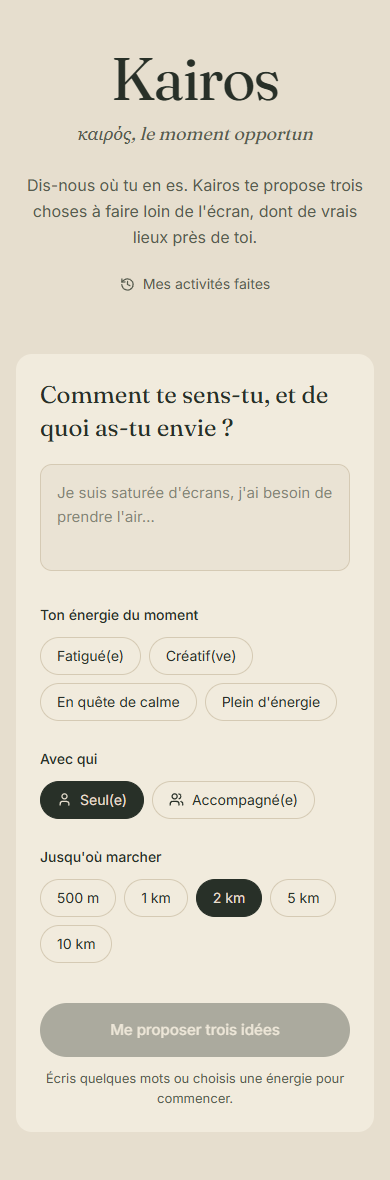
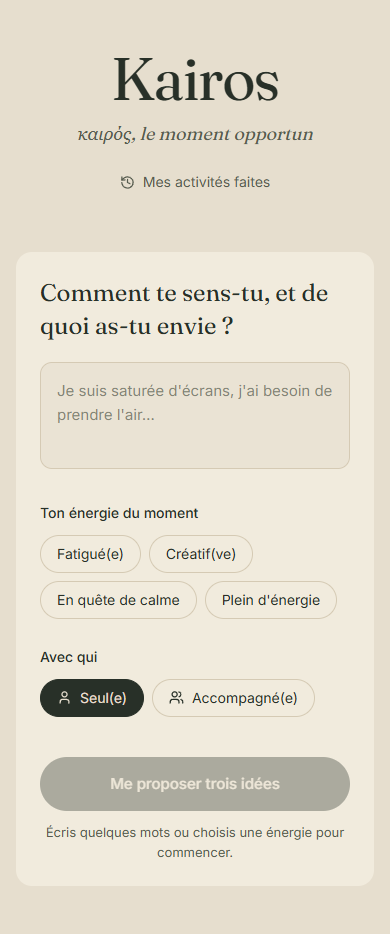
Remove the distance selector and skip places that are currently closed
- Drop the intro sentence and the "Jusqu'où marcher" selector from the form
- Search places within 5 km by default (radius stays optional in the API)
- Skip places that are closed right now, for both Google Maps and Places API
- Update README, handover guide and form screenshots

diff --git a/frontend/src/components/KairosForm.tsx b/frontend/src/components/KairosForm.tsx
@@ -4,12 +4,6 @@ import { User, Users } from "lucide-react";
 import type { RecommendRequest } from "../types";
 
 const MOODS = ["Fatigué(e)", "Créatif(ve)", "En quête de calme", "Plein d'énergie"];
-// Distance maximale des lieux proposés, en mètres (le backend accepte 300 à 10 000).
-const RADII = [500, 1000, 2000, 5000, 10000];
-
-export function formatRadius(m: number) {
-  return m < 1000 ? `${m} m` : `${m / 1000} km`;
-}
 
 interface Props { initial?: RecommendRequest | null; onSubmit: (req: RecommendRequest) => void }
 
@@ -41,7 +35,6 @@ export default function KairosForm({ initial, onSubmit }: Props) {
   const [text, setText] = useState(initial?.user_input ?? "");
   const [mood, setMood] = useState<string | null>(initial?.mood ?? null);
   const [alone, setAlone] = useState(initial?.is_alone ?? true);
-  const [radius, setRadius] = useState(initial?.radius ?? 2000);
 
   const canSubmit = text.trim().length > 0 || mood !== null;
 
@@ -53,7 +46,7 @@ export default function KairosForm({ initial, onSubmit }: Props) {
       transition={{ duration: 0.4 }}
       onSubmit={(e) => {
         e.preventDefault();
-        if (canSubmit) onSubmit({ user_input: text.trim(), mood, is_alone: alone, max_options: 3, radius });
+        if (canSubmit) onSubmit({ user_input: text.trim(), mood, is_alone: alone, max_options: 3 });
       }}
       className="mx-auto w-full max-w-2xl rounded-2xl bg-surface p-6 sm:p-10"
     >
@@ -78,12 +71,6 @@ export default function KairosForm({ initial, onSubmit }: Props) {
       <Group legend="Avec qui">
         <Chip active={alone} onClick={() => setAlone(true)}><User size={15} /> Seul(e)</Chip>
         <Chip active={!alone} onClick={() => setAlone(false)}><Users size={15} /> Accompagné(e)</Chip>
-      </Group>
-
-      <Group legend="Jusqu'où marcher">
-        {RADII.map((r) => (
-          <Chip key={r} active={radius === r} onClick={() => setRadius(r)}>{formatRadius(r)}</Chip>
-        ))}
       </Group>
 
       <button

diff --git a/frontend/src/App.tsx b/frontend/src/App.tsx
@@ -1,7 +1,7 @@
 import { useState } from "react";
 import { AnimatePresence, motion } from "framer-motion";
 import { ArrowLeft, RefreshCw, MapPinOff, History } from "lucide-react";
-import KairosForm, { formatRadius } from "./components/KairosForm";
+import KairosForm from "./components/KairosForm";
 import BreathingLoader from "./components/BreathingLoader";
 import KairosCard from "./components/KairosCard";
 import InstructionModal from "./components/InstructionModal";
@@ -48,7 +48,7 @@ export default function App() {
         : data.places_source === "no_location"
           ? "La géolocalisation est indisponible. Voici trois activités sans lieu inventé; autorise ta position pour chercher des spots proches."
           : data.places_source === "google_no_match"
-            ? `Aucun spot à moins de ${formatRadius(req.radius ?? 2000)} ne correspond au type demandé avec une note suffisante et une photo. Élargis la distance ou essaie une de ces trois idées.`
+            ? "Aucun lieu ouvert près de toi ne correspond au type demandé avec une note suffisante et une photo. Essaie une de ces trois idées."
             : data.places_source === "google_error"
               ? "Google Places n'a pas répondu. Voici trois idées à faire; vérifie la clé et l'activation de Places API."
               : data.places_source === "maps_error"
@@ -70,9 +70,6 @@ export default function App() {
           Kairos
         </motion.h1>
         <p className="mt-3 font-serif text-lg italic text-muted">καιρός, le moment opportun</p>
-        <p className="mx-auto mt-6 max-w-md text-[16px] leading-relaxed text-muted">
-          Dis-nous où tu en es. Kairos te propose trois choses à faire loin de l'écran, dont de vrais lieux près de toi.
-        </p>
         <button
           onClick={async () => { setHistory(await fetchHistory()); setShowHistory(!showHistory); }}
           aria-expanded={showHistory}

diff --git a/frontend/src/api.ts b/frontend/src/api.ts
@@ -20,7 +20,7 @@ export async function fetchRecommendations(req: RecommendRequest): Promise<Recom
     const res = await fetch("/api/kairos/recommend", {
       method: "POST",
       headers: { "Content-Type": "application/json" },
-      body: JSON.stringify({ ...req, lat: pos.lat, lon: pos.lon, radius: req.radius ?? 2000 }),
+      body: JSON.stringify({ ...req, lat: pos.lat, lon: pos.lon }),
     });
     if (!res.ok) throw new Error(`HTTP ${res.status}`);
     const data = (await res.json()) as RecommendResponse;

diff --git a/backend/app/maps_search.py b/backend/app/maps_search.py
@@ -2,7 +2,8 @@
 
 The request is the one the Maps web page itself sends (learned with API Anything,
 site "google-maps", operation "searchPlaces"). Kairos adds a viewport centred on the
-user so results are local, then keeps only places inside the requested radius.
+user so results are local, then keeps only places inside the radius (5 km by default)
+that are open right now.
 This is an unofficial endpoint: Google can change it at any time, and it is meant for
 prototyping. Nothing is persisted.
 """
@@ -103,9 +104,12 @@ async def search_maps(lat: float, lon: float, radius: int, wanted: set[str]) -> 
             rating, reviews = _get(place, 4, 7), _get(place, 4, 8) or 0
             hours = _get(place, 203, 1, 4, 0) or ""
             image_url = _photo(place)
+            # "Fermé ⋅ Ouvre à 08:00", "Fermé définitivement"…: skip anything not open now.
+            closed = hours.lower().startswith("fermé") or any(
+                word in hours.lower() for word in ("définitivement", "temporairement"))
             if (not name or not place_id or place_id in seen or plat is None or plon is None
                     or rating is None or float(rating) < min_rating or int(reviews) < min_reviews
-                    or not image_url or "définitivement" in hours.lower() or "temporairement" in hours.lower()):
+                    or not image_url or closed):
                 continue
             distance = haversine_m(lat, lon, float(plat), float(plon))
             if distance > radius:  # the viewport is a square; keep only the circle

diff --git a/backend/app/google_places.py b/backend/app/google_places.py
@@ -19,6 +19,7 @@ FIELDS = ",".join([
     "places.id", "places.displayName", "places.formattedAddress", "places.location",
     "places.types", "places.primaryTypeDisplayName", "places.googleMapsUri",
     "places.businessStatus", "places.rating", "places.userRatingCount",
+    "places.currentOpeningHours.openNow",
     "places.photos.name", "places.photos.authorAttributions", "places.photos.googleMapsUri",
 ])
 
@@ -87,7 +88,8 @@ async def search_places(lat: float, lon: float, radius: int, wanted: set[str]) -
             category = next((TYPE_CATEGORY[t] for t in place_types if t in TYPE_CATEGORY), None)
             rating = place.get("rating")
             review_count = place.get("userRatingCount", 0)
-            if (place.get("businessStatus") != "OPERATIONAL" or not name or not address or not place_id
+            open_now = (place.get("currentOpeningHours") or {}).get("openNow")
+            if (place.get("businessStatus") != "OPERATIONAL" or open_now is False or not name or not address or not place_id
                     or not category or not place.get("googleMapsUri") or not location
                     or rating is None or float(rating) < min_rating or int(review_count) < min_reviews):
                 continue

diff --git a/backend/app/schemas.py b/backend/app/schemas.py
@@ -10,7 +10,7 @@ class RecommendRequest(BaseModel):
     max_options: int = Field(3, ge=3, le=3)
     lat: Optional[float] = None  # position de l'utilisateur (gÃ©olocalisation navigateur)
     lon: Optional[float] = None
-    radius: int = Field(2000, ge=300, le=10000)  # mÃ¨tres
+    radius: int = Field(5000, ge=300, le=10000)  # mÃ¨tres
 
 
 class Recommendation(BaseModel):

diff --git a/README.md b/README.md
@@ -23,16 +23,15 @@ more**, so you can choose quickly, put the phone down and go.
   and whether you're alone or with someone.
 - **Generates tailored activities** with an LLM, each with steps to follow, instead of picking
   from a fixed catalog.
-- **Finds real places around you** (cafés, parks, museums, libraries, galleries) within the
-  radius you choose, from 500 m to 10 km. Each place comes with a photo, its rating, distance,
-  opening hours and a Google Maps link.
-- **Keeps only good places**: open, rated at least 4.2/5, with at least 10 reviews.
+- **Finds real places around you** (cafés, parks, museums, libraries, galleries) within 5 km.
+  Each place comes with a photo, its rating, distance, opening hours and a Google Maps link.
+- **Keeps only good places**: open right now, rated at least 4.2/5, with at least 10 reviews.
 - **Remembers what you've done**: an activity marked as done is not suggested again.
 - **Works without AI or location**: without an LLM it puts together fallback ideas; without
   geolocation it suggests activities with no place attached.
 
 <p align="center">
-  <img src="docs/images/formulaire.png" alt="Kairos form: free text, current energy, who you're with, and maximum distance" width="620">
+  <img src="docs/images/formulaire.png" alt="Kairos form: free text, current energy and who you're with" width="620">
   &nbsp;
   <img src="docs/images/mobile.png" alt="Kairos on mobile" width="190">
 </p>
@@ -100,11 +99,11 @@ create a key restricted to that API, then add it to `.env`.
 ## How it works
 
 ```
-Browser (React)  ──  mood, text, location, radius  ──▶  POST /api/kairos/recommend
+Browser (React)  ──  mood, text, location  ────────▶  POST /api/kairos/recommend
                                                               │
                    ┌──────────────────────────────────────────┼──────────────────────┐
                    ▼                                          ▼                      ▼
-          LLM: activity ideas                     Places within the radius    SQLite: activities
+          LLM: activity ideas                     Open places within 5 km     SQLite: activities
           (Ollama / Gemini / local)               (Places API or Maps)        already done, skipped
                    └──────────────────────────────────────────┬──────────────────────┘
                                                               ▼
@@ -139,14 +138,14 @@ Browser (React)  ──  mood, text, location, radius  ──▶  POST /api/kair
   "is_alone": true,
   "max_options": 3,
   "lat": 34.0209,
-  "lon": -6.8416,
-  "radius": 1000
+  "lon": -6.8416
 }
 ```
 
 The response always contains **exactly three** `recommendations`, plus `source` (`llm` or
 `fallback`) and `places_source`, which tells where the places came from or why there are none
-(`google`, `maps`, `google_no_match`, `no_location`…).
+(`google`, `maps`, `google_no_match`, `no_location`…). An optional `radius` (300 to 10,000 m,
+default 5,000) changes the search distance.
 
 </details>
 

diff --git a/docs/REPRISE.md b/docs/REPRISE.md
@@ -17,7 +17,7 @@ proximité.
 | Backend FastAPI + SQLite | Fonctionnel |
 | Génération d'activités par LLM (Ollama Cloud, Gemini ou local) | Fonctionnel, avec des idées de secours sans LLM |
 | Recherche de lieux **sans clé** via Google Maps | Fonctionnelle, commitée et poussée (`df4e94f`) |
-| Choix du rayon (500 m à 10 km) | Fonctionnel, commité et poussé (`df4e94f`) |
+| Choix du rayon (500 m à 10 km) | Retiré de l'interface (voir 4.6) ; rayon fixe de 5 km |
 | README réécrit (encodage corrigé) | Commité et poussé (`df4e94f`) |
 | **Refonte de l'interface** | Terminée et vérifiée, **pas encore commitée** |
 | API Anything (outil de rétro-ingénierie d'API) | Installé sur la machine et connecté à Claude Code |
@@ -150,8 +150,9 @@ de Google, trois ajouts ont été faits :
 | Photo | `[37][0][0][6][0]` (ou `[72][0][0][6][0]`) |
 | Horaires (« Ouvert · Ferme à 22:00 ») | `[203][1][4][0]` |
 
-**Filtres appliqués :** note ≥ 4,2, au moins 10 avis, une photo, pas « fermé
-définitivement / temporairement », et distance ≤ rayon choisi.
+**Filtres appliqués :** note ≥ 4,2, au moins 10 avis, une photo, ouvert en ce moment (pas
+« Fermé… », ni fermé définitivement / temporairement), et distance ≤ rayon (5 km par défaut).
+Un lieu sans horaires connus est gardé.
 
 **Choix de la source** (`PLACES_PROVIDER` dans `backend/.env`) :
 
@@ -228,6 +229,18 @@ Pour une app anti-doomscroll, l'objectif était l'inverse d'un feed : calme, pos
 
 **Vérifié :** `tsc` sans erreur, build Vite OK, captures desktop et mobile avec une vraie
 recherche à Rabat (cafés, et mélange lieu + idées).
+
+### 4.6 Suppression du choix de distance, lieux fermés exclus (pas encore commité)
+
+- Retrait de la phrase d'introduction sous le titre et du choix « Jusqu'où marcher » : il
+  limitait trop les lieux proposés.
+- Le frontend n'envoie plus de `radius` ; le backend utilise **5 km par défaut**
+  (`schemas.py`). Le paramètre reste accepté par l'API (300 à 10 000 m).
+- **Lieux fermés exclus :** côté Maps, tout horaire qui commence par « Fermé » est écarté
+  (`maps_search.py`) ; côté API officielle, le champ `currentOpeningHours.openNow` est
+  demandé et un lieu avec `openNow = false` est écarté (`google_places.py`).
+
+**Vérifié à Rabat :** 8 lieux, tous ouverts (ou sans horaires connus), de 620 m à 2,3 km.
 
 ---
 
